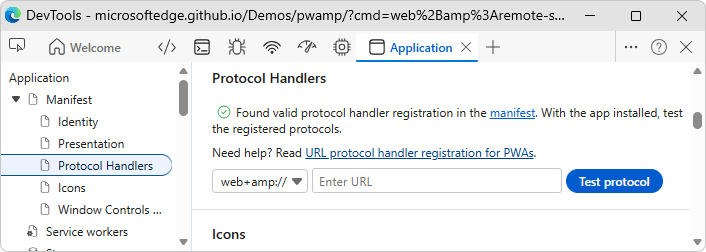
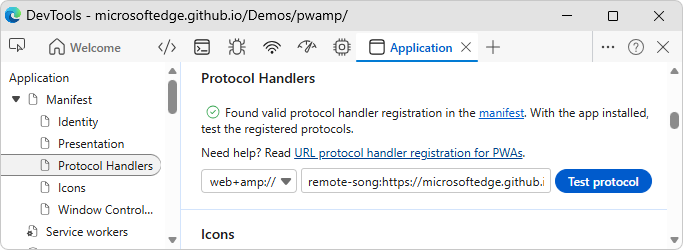
string in png

diff --git a/microsoft-edge/devtools/progressive-web-apps/index.md b/microsoft-edge/devtools/progressive-web-apps/index.md
@@ -226,7 +226,7 @@ To test protocol handling, install the app, and then test in one of two ways, as
 
 1. Click the **Yes** button.
 
-Next, test URL protocol handler registration, using one of the following ways.
+Next, test URL protocol handler registration, using either of the following ways.
 
 
 <!-- ---------- -->
@@ -246,7 +246,7 @@ To test URL protocol handler registration by using DevTools:
 
    The **Manifest** page scrolls down to the **Protocol Handlers** section.
 
-1. In the **Enter URL** text box, enter the following:
+1. In the **Enter URL** text box to the right of `web+amp://`, enter the following:
 
    ```
    remote-song:https://microsoftedge.github.io/Demos/pwamp/songs/OverTheStargates.mp3
